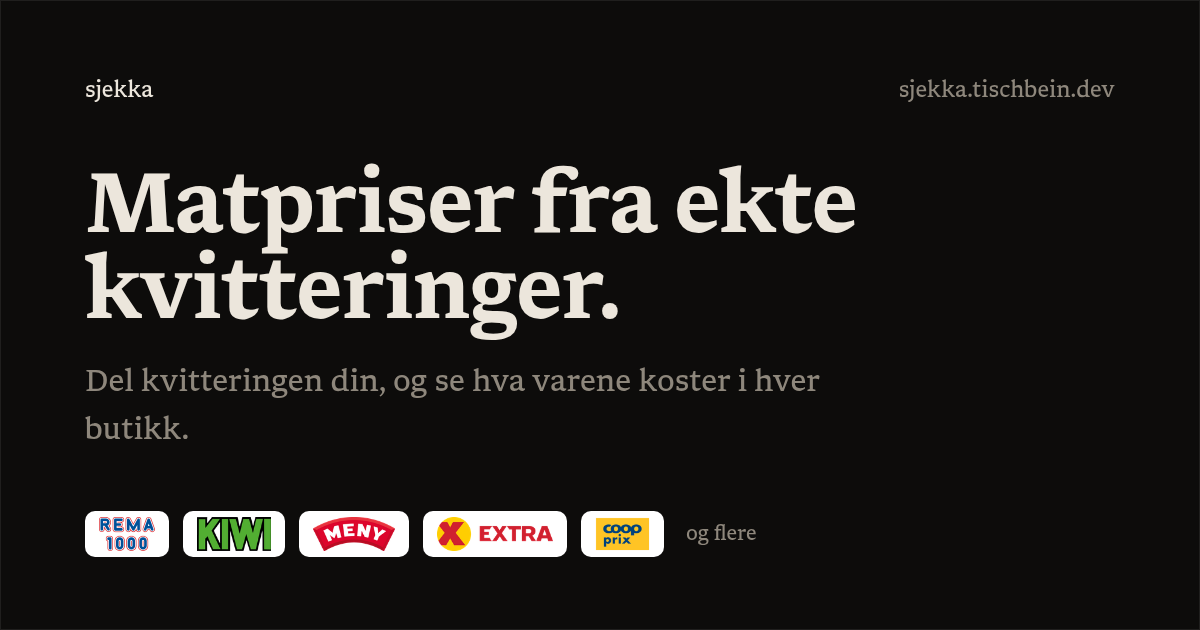
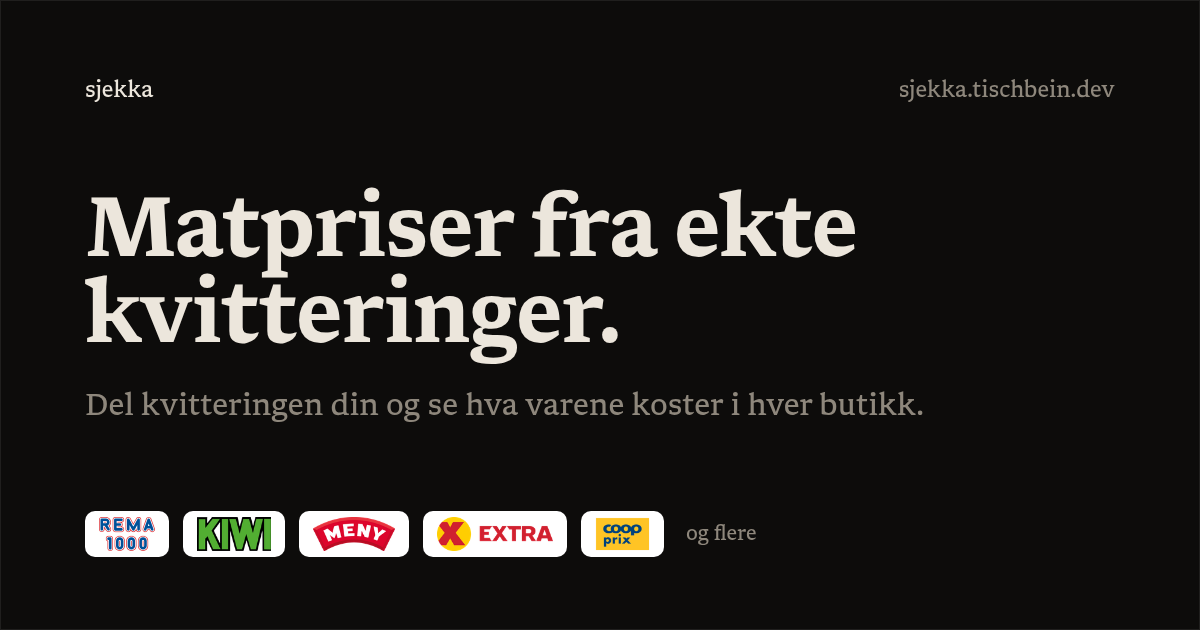
Make the Norwegian read naturally (#25)
Fixes phrasing that read like translated English: "kvitteringer delt" -> "delte kvitteringer", "matprisene transparente" -> "synlige", "handle smartere", "Sammenlign 2 butikker", "Last opp en til", subjectless "Prøver igjen", a semicolon, and a few stray commas. The link preview image is regenerated with the new subtitle.

Claude-Session: https://claude.ai/code/session_01JjSFC3ErBNAmA8xjjzJgsR

Changed region(s): [[0.0617, 0.2413, 0.7708, 0.6937]]

diff --git a/static/index.html b/static/index.html
@@ -9,7 +9,7 @@
     <meta property="og:type" content="website">
     <meta property="og:site_name" content="Sjekka">
     <meta property="og:title" content="Sjekka – Matpriser fra ekte kvitteringer">
-    <meta property="og:description" content="Del kvitteringen din, og se hva varene koster i hver butikk.">
+    <meta property="og:description" content="Del kvitteringen din og se hva varene koster i hver butikk.">
     <meta property="og:url" content="https://sjekka.tischbein.dev/">
     <meta property="og:image" content="https://sjekka.tischbein.dev/og.png">
     <meta property="og:image:width" content="1200">
@@ -31,11 +31,11 @@
     <main>
         <section class="intro">
             <p class="meta">Matpriser fra ekte kvitteringer</p>
-            <h1>Sammen gjør vi matprisene transparente.</h1>
-            <p class="lede">Hver kvittering du deler hjelper folk i hele landet å handle smartere og spare penger.</p>
+            <h1>Sammen gjør vi matprisene synlige.</h1>
+            <p class="lede">Hver kvittering du deler, hjelper folk i hele landet å handle billigere.</p>
             <p class="stats">
-                <span><b id="stat-receipts">–</b><span id="stat-receipts-label">kvitteringer delt</span></span>
-                <span><b id="stat-items">–</b><span id="stat-items-label">priser registrert</span></span>
+                <span><b id="stat-receipts">–</b><span id="stat-receipts-label">delte kvitteringer</span></span>
+                <span><b id="stat-items">–</b><span id="stat-items-label">registrerte priser</span></span>
             </p>
             <div class="actions">
                 <a class="button primary" href="/upload.html">Last opp kvittering <span class="arrow">→</span></a>
@@ -130,7 +130,7 @@
                 allProducts.length ? `${filtered.length} ${filtered.length === 1 ? "produkt" : "produkter"}` : "";
             const notice = document.getElementById("notice");
             notice.hidden = filtered.length > 0;
-            notice.textContent = allProducts.length ? "Ingen produkter passer søket." : "Ingen priser ennå. Last opp den første kvitteringen.";
+            notice.textContent = allProducts.length ? "Ingen produkter passer til søket." : "Ingen priser ennå. Last opp den første kvitteringen.";
 
             document.getElementById("grid").replaceChildren(...filtered.map(p => {
                 const { each, unit } = prices(p);
@@ -139,7 +139,7 @@
                 if (p.brand) body.append(el("p", "brand", p.brand));
                 body.append(el("p", "price", each));
                 if (unit) body.append(el("p", "unit", unit));
-                if (p.store_count > 1) body.append(el("p", "stores", `Sammenlign ${p.store_count} butikker`));
+                if (p.store_count > 1) body.append(el("p", "stores", `Sammenlign priser i ${p.store_count} butikker`));
                 const where = el("p", "where");
                 where.append(chainBadge(p.store_chain), el("span", "", daysAgo(p.purchase_date)));
                 const card = el("a", "card");
@@ -159,8 +159,8 @@
                 const stats = await statsRes.json();
                 document.getElementById("stat-receipts").textContent = whole.format(stats.total_receipts);
                 document.getElementById("stat-items").textContent = whole.format(stats.total_items);
-                if (stats.total_receipts === 1) document.getElementById("stat-receipts-label").textContent = "kvittering delt";
-                if (stats.total_items === 1) document.getElementById("stat-items-label").textContent = "pris registrert";
+                if (stats.total_receipts === 1) document.getElementById("stat-receipts-label").textContent = "delt kvittering";
+                if (stats.total_items === 1) document.getElementById("stat-items-label").textContent = "registrert pris";
                 renderCategories();
                 renderGrid();
             } catch {

diff --git a/static/takk.html b/static/takk.html
@@ -39,7 +39,7 @@
                 <ul class="items" id="items" hidden></ul>
             </div>
             <div class="actions">
-                <a class="button primary" href="/upload.html">Last opp en til <span class="arrow">→</span></a>
+                <a class="button primary" href="/upload.html">Last opp flere <span class="arrow">→</span></a>
                 <a class="button" href="/">Se prisene</a>
             </div>
         </section>
@@ -114,7 +114,7 @@
             if (job.status === "failed") return setState("Kunne ikke lese kvitteringen. Prøv et skarpere bilde der hele kvitteringen er med.", "error");
 
             if (job.status === "processing") setState("Gemini leser kvitteringen …", "busy");
-            else if (job.retrying) setState("Gemini er opptatt. Prøver igjen om litt …", "busy");
+            else if (job.retrying) setState("Gemini er opptatt. Vi prøver igjen om litt …", "busy");
             else setState(job.queue_position > 1 ? `I kø, nummer ${job.queue_position} …` : "I kø …", "busy");
 
             if (Date.now() - started < GIVE_UP_MS) setTimeout(poll, POLL_MS);

diff --git a/static/upload.html b/static/upload.html
@@ -42,7 +42,7 @@
                 <span class="label" id="hint">JPEG, PNG, WebP eller HEIC · maks 10 MB</span>
             </label>
             <p class="file" id="file" hidden><span id="file-name"></span><span id="file-size"></span></p>
-            <p class="note" id="privacy">Bildet sendes til Google Gemini, som leser kvitteringen. Bildet slettes når det er lest; butikk, varer og priser lagres.</p>
+            <p class="note" id="privacy">Bildet sendes til Google Gemini, som leser kvitteringen. Bildet slettes når det er lest, mens butikk, varer og priser lagres.</p>
 
             <div class="actions">
                 <button class="button primary" id="btn" type="button" disabled>Last opp <span class="arrow">→</span></button>
@@ -154,7 +154,7 @@
                 }
                 setStatus(`Opplastingen feilet: ${data.detail || res.statusText}`, true);
             } catch {
-                setStatus("Noe gikk galt. Sjekk nettet og prøv igjen.", true);
+                setStatus("Noe gikk galt. Sjekk nettforbindelsen og prøv igjen.", true);
             }
             btn.disabled = false;
         });

diff --git a/static/produkt.html b/static/produkt.html
@@ -110,7 +110,7 @@
             let v0 = Math.min(...values), v1 = Math.max(...values);
             const pad = Math.max((v1 - v0) * 0.15, v1 * 0.05);
             v0 -= pad; v1 += pad;
-            $("scale-note").textContent = `Tidslinjene viser ${unitLabel(cheapest)}, samme skala for alle butikker`;
+            $("scale-note").textContent = `Tidslinjene viser ${unitLabel(cheapest)}, med lik skala for alle butikker`;
             const fmtDate = t => new Date(t).toLocaleDateString("nb-NO", { day: "numeric", month: "short" });
             $("axis").children[0].textContent = fmtDate(t0);
             $("axis").children[1].textContent = fmtDate(t1);

diff --git a/docs/og/og.html b/docs/og/og.html
@@ -14,7 +14,7 @@
 </style></head><body>
 <div class="og">
   <div class="ogtop"><span style="color:var(--text)">sjekka</span><span>sjekka.tischbein.dev</span></div>
-  <div><h1>Matpriser fra ekte kvitteringer.</h1><p class="sub">Del kvitteringen din, og se hva varene koster i hver butikk.</p></div>
+  <div><h1>Matpriser fra ekte kvitteringer.</h1><p class="sub">Del kvitteringen din og se hva varene koster i hver butikk.</p></div>
   <div class="row">
     <span class="chain logo"><img src="/chains/rema-1000.svg"></span>
     <span class="chain logo"><img src="/chains/kiwi.png"></span>

diff --git a/static/404.html b/static/404.html
@@ -22,7 +22,7 @@
         <section>
             <p class="meta">404</p>
             <h1>Fant ikke siden.</h1>
-            <p class="lede">Lenken kan være gammel, eller adressen feilskrevet. Prisene finner du i oversikten.</p>
+            <p class="lede">Lenken kan være utdatert, eller adressen kan være skrevet feil. Prisene finner du i oversikten.</p>
             <div class="actions">
                 <a class="button primary" href="/">Til oversikten <span class="arrow">→</span></a>
                 <a class="button" href="/upload.html">Last opp kvittering</a>

diff --git a/tests/test_browser.py b/tests/test_browser.py
@@ -171,7 +171,7 @@ def test_search_matches_name_and_brand(page):
     expect(cards(page)).to_have_count(1)
     page.fill("#search", "finnes ikke")
     expect(cards(page)).to_have_count(0)
-    expect(page.locator("#notice")).to_have_text("Ingen produkter passer søket.")
+    expect(page.locator("#notice")).to_have_text("Ingen produkter passer til søket.")
 
 
 def test_category_filter(page):
@@ -304,7 +304,7 @@ def test_cards_show_chain_logos_or_colours(page):
 def test_card_opens_the_product_page(page):
     page.goto("/")
     milk = cards(page).filter(has_text="Lettmelk")
-    expect(milk.locator(".stores")).to_have_text("Sammenlign 2 butikker")
+    expect(milk.locator(".stores")).to_have_text("Sammenlign priser i 2 butikker")
     milk.click()
     page.wait_for_url("**/produkt.html?navn=Lettmelk")
     expect(page.locator("h1")).to_have_text("Lettmelk")
